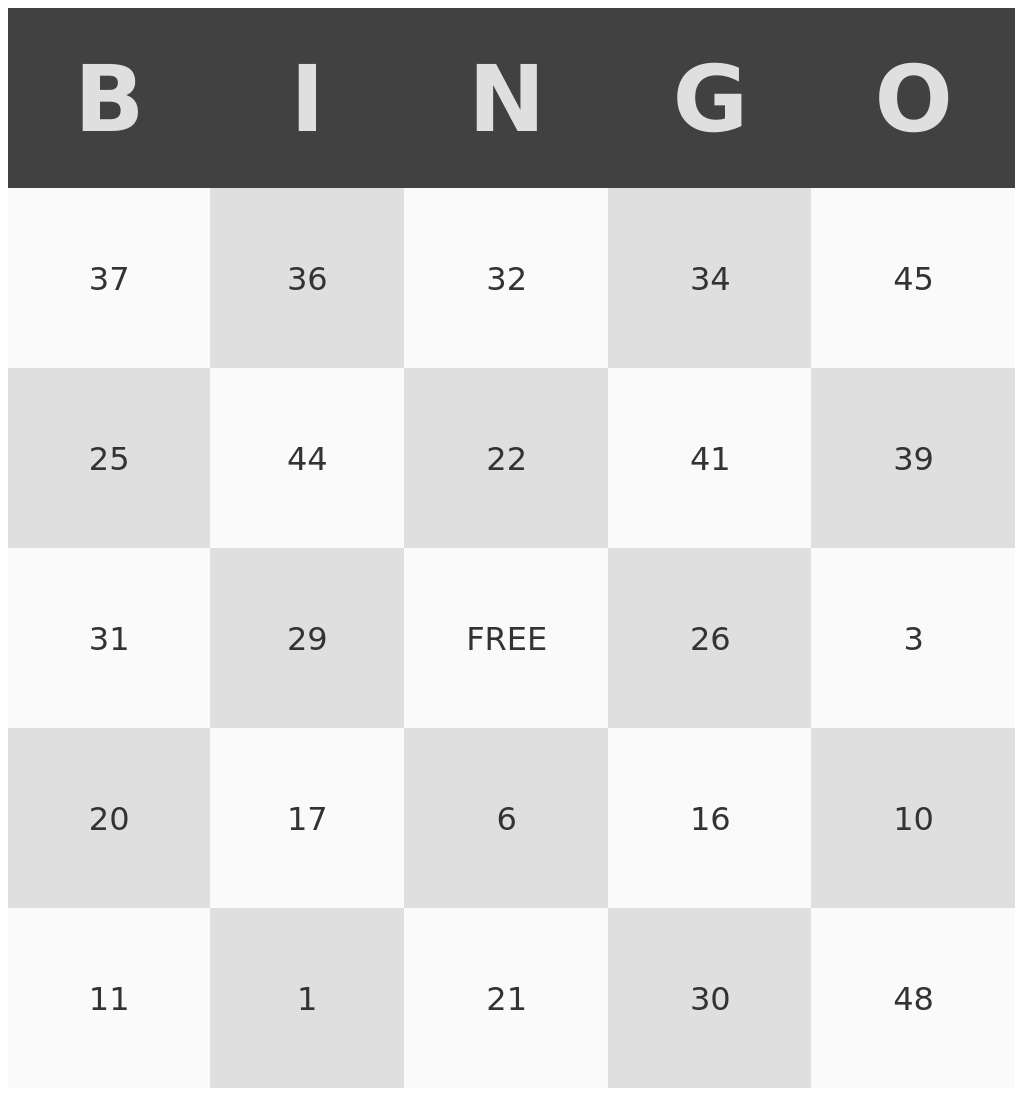
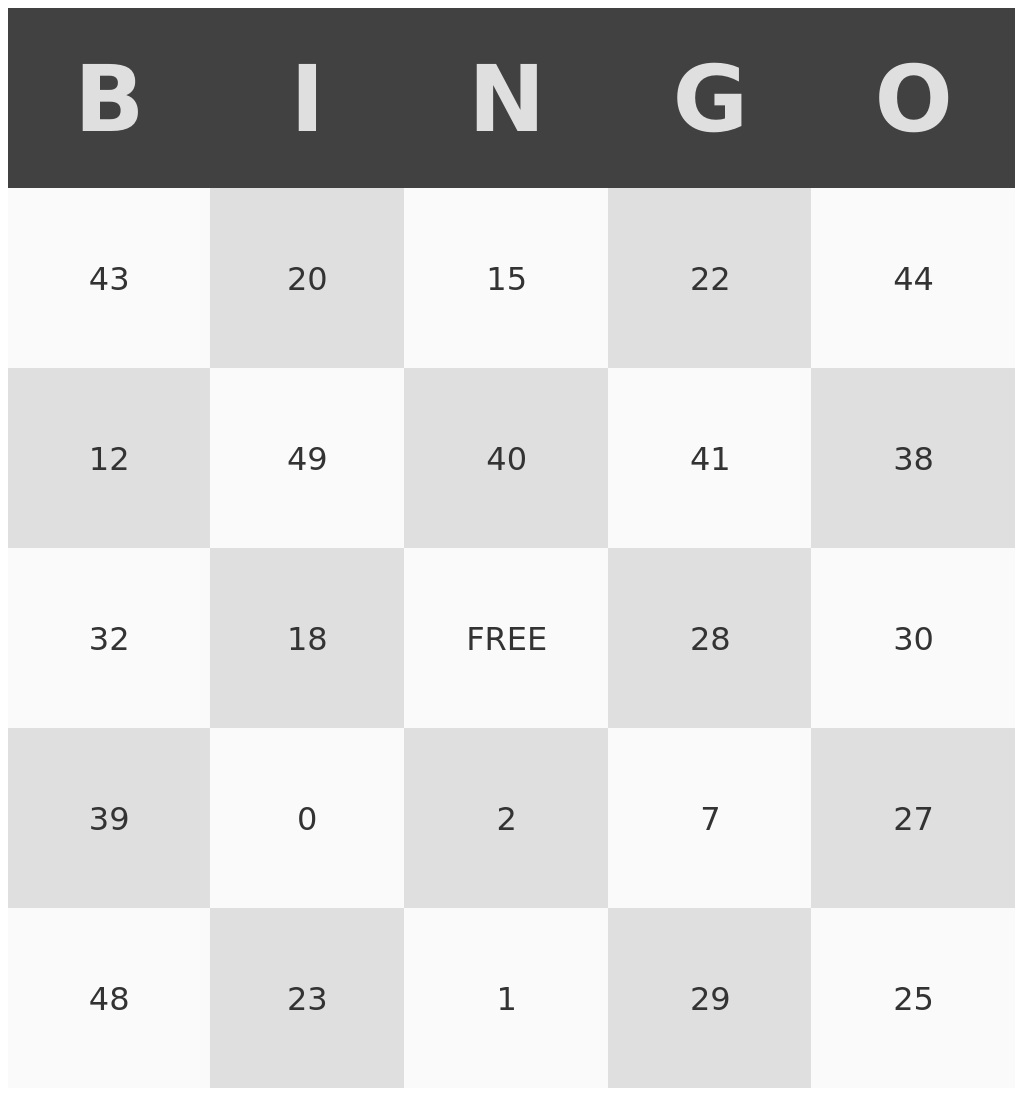
Created bingo generator via utility functions. Still os bugs to fix and file input needs tested

diff --git a/notebook/bingo.html b/notebook/bingo.html
@@ -45,39 +45,39 @@ background-color: #DFDFDF;
   </thead>
   <tbody>
     <tr>
-      <td>37</td>
-      <td>36</td>
-      <td>32</td>
-      <td>34</td>
-      <td>45</td>
-    </tr>
-    <tr>
-      <td>25</td>
-      <td>44</td>
-      <td>22</td>
-      <td>41</td>
-      <td>39</td>
-    </tr>
-    <tr>
-      <td>31</td>
-      <td>29</td>
-      <td>FREE</td>
-      <td>26</td>
-      <td>3</td>
-    </tr>
-    <tr>
+      <td>43</td>
       <td>20</td>
-      <td>17</td>
-      <td>6</td>
-      <td>16</td>
-      <td>10</td>
+      <td>15</td>
+      <td>22</td>
+      <td>44</td>
     </tr>
     <tr>
-      <td>11</td>
-      <td>1</td>
-      <td>21</td>
+      <td>12</td>
+      <td>49</td>
+      <td>40</td>
+      <td>41</td>
+      <td>38</td>
+    </tr>
+    <tr>
+      <td>32</td>
+      <td>18</td>
+      <td>FREE</td>
+      <td>28</td>
       <td>30</td>
+    </tr>
+    <tr>
+      <td>39</td>
+      <td>0</td>
+      <td>2</td>
+      <td>7</td>
+      <td>27</td>
+    </tr>
+    <tr>
       <td>48</td>
+      <td>23</td>
+      <td>1</td>
+      <td>29</td>
+      <td>25</td>
     </tr>
   </tbody>
 </table>

diff --git a/generator/bingo_generator.py b/generator/bingo_generator.py
@@ -1,0 +1,41 @@
+import pandas as pd
+import numpy as np
+
+from generator.utility.score_checker import bingo_match_score_exceed
+from generator.utility.image_util import bingo_table_to_image
+
+def random_table_gen(source_list):
+    table = []
+    np.random.shuffle(source_list)
+    for i in range(0, 5): # rows
+        row = []
+        for j in range(0, 5): # columns
+            if i == 2 and j == 2:
+                row.append("FREE")
+            else:
+                row.append(source_list[(i * 5) + j])
+        table.append(row)
+    return table
+
+def generate_all_tables(values, tablenum):
+    tables = []
+    while len(tables) < tablenum:
+        cur_list = random_table_gen(values)
+        if len(tables) == 0:
+            tables.append(cur_list)
+        else:
+            bool_sum = False
+            for arr in tables:
+            	# The score here is a highly unscientific 21.
+            	# We should calculate this.
+                bool_sum += bingo_match_score_exceed(np.ravel(cur_list), np.ravel(arr), 21)
+            if not bool_sum:
+                tables.append(cur_list)
+    return tables
+
+def create_bingo_cards(values, card_num):
+	tables = generate_all_tables(values, card_num)
+	for i in range(len(tables)):
+		bingo_table_to_image(tables[i], "output/{}.png".format(i))
+
+

diff --git a/main.py b/main.py
@@ -1,0 +1,33 @@
+import argparse
+
+from generator.utility import extractor, file_util
+from generator import bingo_generator
+
+# Parsing Args
+parser = argparse.ArgumentParser()
+parser.add_argument("-t", "--textfile", help="A newline-delimited txt file with values for Bingo squares. If none is provided, random integers from 0-75 will be used. These are not consistent with the normal numbering conventions of Bingo.")
+parser.add_argument("-c", "--cards", help="The number of cards to create.")
+
+args = parser.parse_args()
+
+if args.textfile:
+    source_value_file = args.textfile
+    print("Using {} to extract Bingo square content".format(source_value_file))
+else:
+    source_value_file = None
+    print("Using numbers 0 to 75 as Bingo square content")
+
+if args.cards:
+    num_cards = args.cards
+else:
+    num_cards = 20
+print("Creating {} bingo cards".format(num_cards))
+
+# Clear out old output directory
+file_util.clear_and_create_output_dir()
+
+# Get bingo values
+values = extractor.extract_values(source_value_file)
+
+# Run the script
+bingo_generator.create_bingo_cards(values, num_cards)

diff --git a/generator/utility/image_util.py b/generator/utility/image_util.py
@@ -1,0 +1,51 @@
+import imgkit
+import pandas as pd
+import os
+
+css = """
+<style type="text/css">
+
+table {
+color: #333;
+font-family: Helvetica, Arial, sans-serif;
+border-collapse:
+collapse; 
+border-spacing: 0;
+}
+
+td, th {
+border: 1px solid transparent; /* No more visible border */
+height: 180px;
+width: 240px;
+text-align: center;
+}
+
+th {
+background: #414141; /* Darken header a bit */
+font-weight: bold;
+font-size: 92px;
+color: #DFDFDF;
+}
+
+td {
+background: #FAFAFA;
+font-size: 32px;
+}
+
+table tr:nth-child(odd) td:nth-child(even),
+tr:nth-child(even) td:nth-child(odd) {
+background-color: #DFDFDF;
+}
+</style>
+"""
+
+def bingo_table_to_image(table, dest_name="output/bingo.png", format="png"):
+    df = pd.DataFrame(table, columns=["B", "I", "N", "G", "O"])
+
+    f = open("output/temp.html", "a")
+    f.write(css)
+    f.write(df.to_html(index=False)) # Index = false will remove that annoying row header
+    f.close()
+    
+    imgkit.from_file("output/temp.html", dest_name, {"format": format})
+    os.remove("output/temp.html")

diff --git a/generator/utility/score_checker.py b/generator/utility/score_checker.py
@@ -1,0 +1,15 @@
+def bingo_match_score_exceed(arr1, arr2, score_limit=21):
+    score = 0
+    for i in range(0, len(arr1)):
+        if arr1[i] == 'FREE':
+            pass
+        elif arr1[i] == arr2[i]:
+            score += 5
+        elif arr1[i] in arr2:
+            score += 1
+        else:
+            score += 0
+        
+        if score > score_limit:
+            return True
+    return False

diff --git a/generator/utility/extractor.py b/generator/utility/extractor.py
@@ -1,0 +1,12 @@
+import numpy as np
+
+def extract_values(filename, numbers=75):
+    # Extracts values from a text file,
+    #  assuming each unique value is on a new line.
+    # If filename is None, will generate a random list of numbers.
+    if filename:
+        with open(filename) as f:
+            values = f.read().splitlines()
+    else:
+        values = np.arange(0, numbers)
+    return values

diff --git a/generator/utility/file_util.py b/generator/utility/file_util.py
@@ -1,0 +1,10 @@
+import os
+
+def clear_and_create_output_dir(dir_name="./output"):
+    # Start by clearing out the output directory if it exists
+    try:
+        os.rmdir(dir_name)
+    except:
+        print("Output directory was not present.")
+
+    os.mkdir(dir_name)
